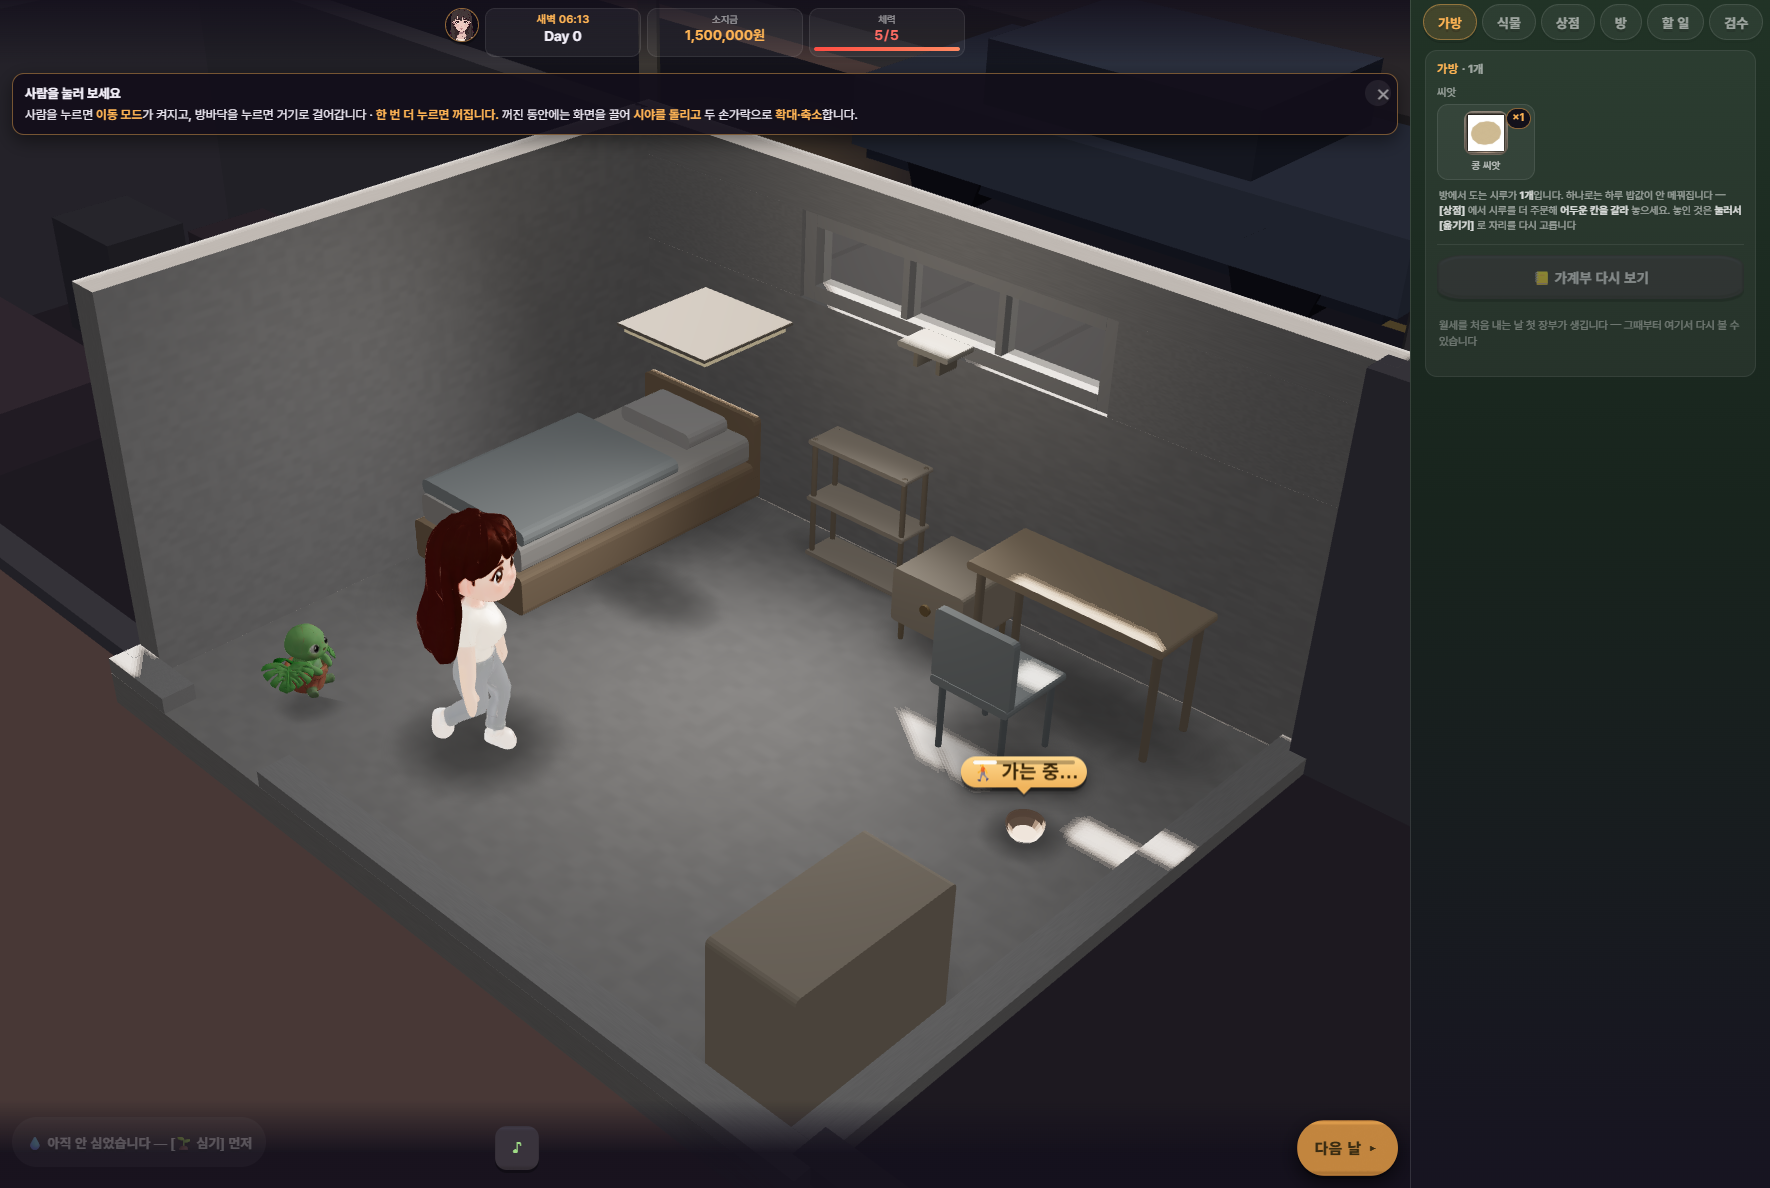
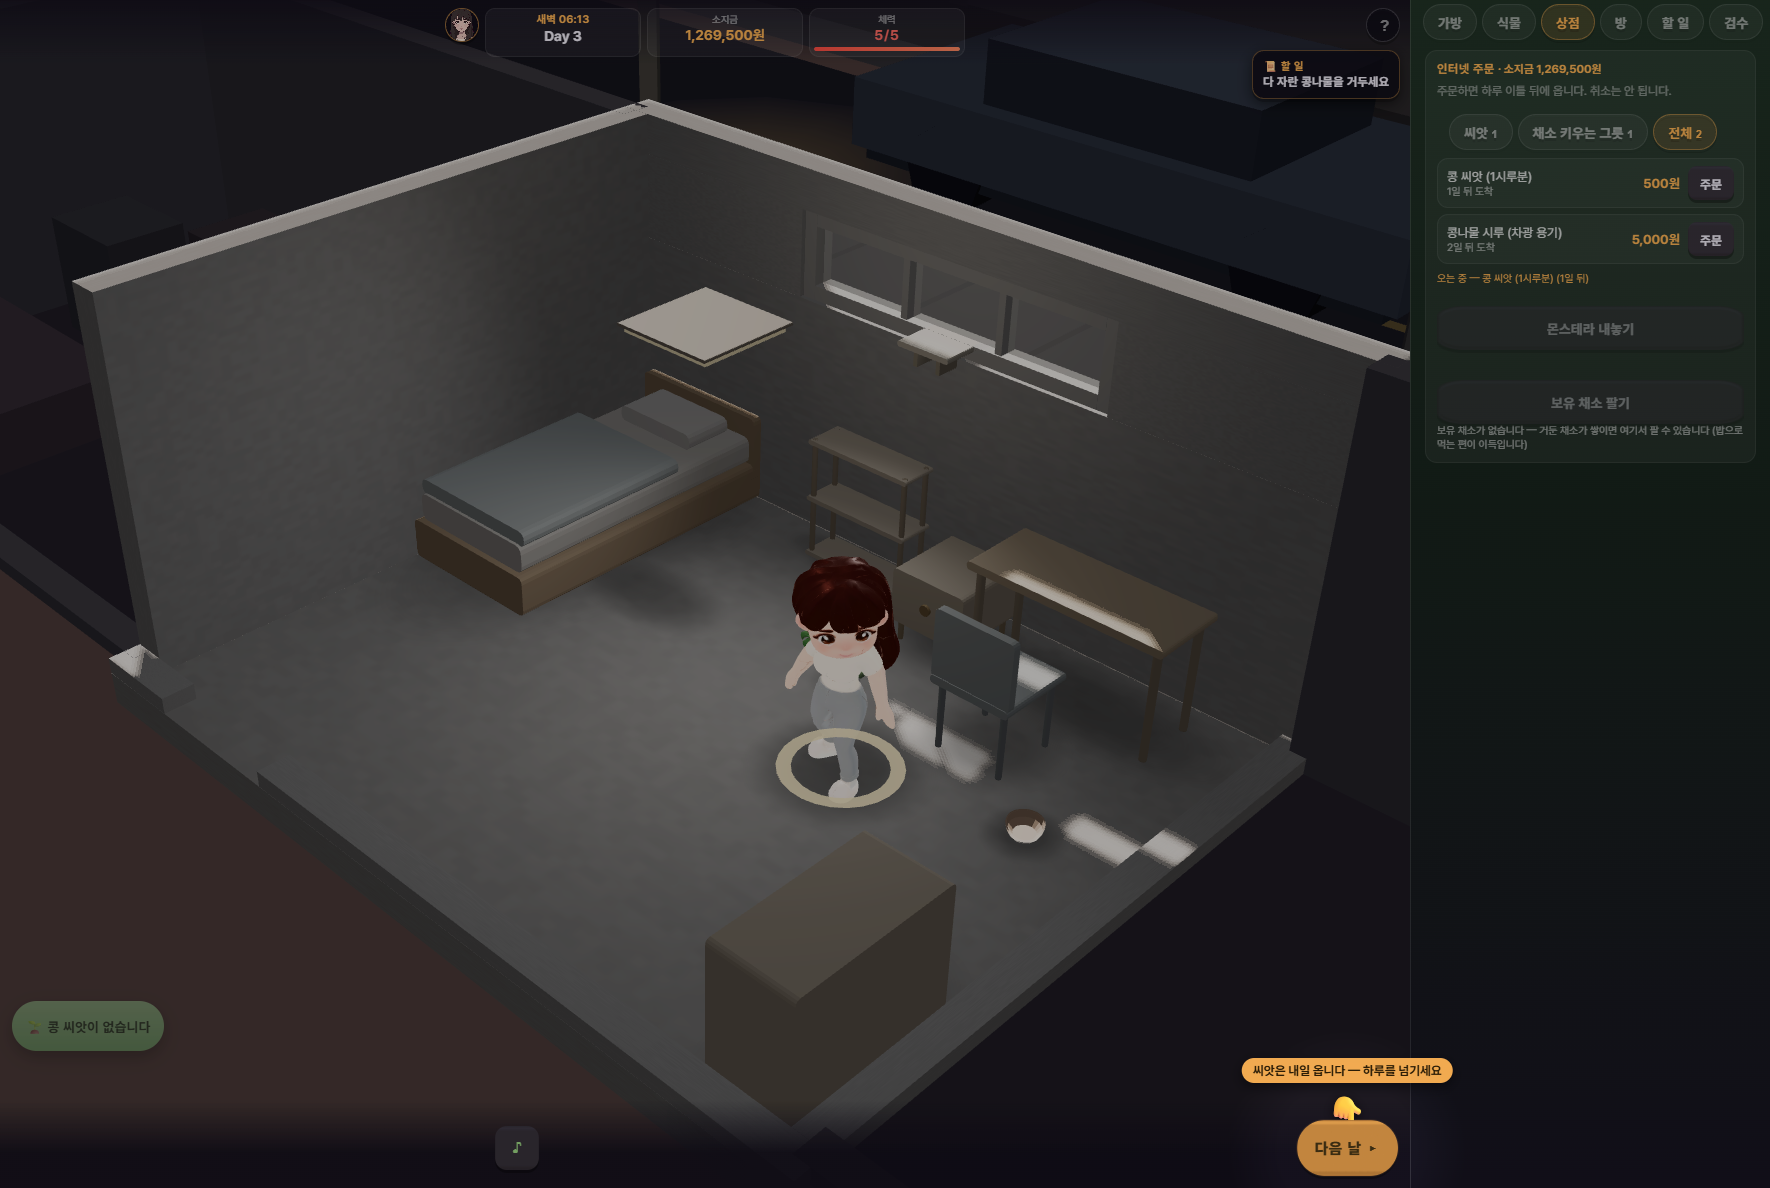
넓은 화면에서 손가락이 죽던 갈래 넷 — 「시트가 열렸나」를 「시트가 이것을 덮나」로
총괄이 걸은 [20~24] 다섯 걸음: 1770×1188 · 시트 연 채 · Day 5 아침에
할 일은 「2바퀴째 돌려 보세요」인데 손가락도 덮개도 없었다.

- updateHint 의 네 갈래(말풍선 · 거두기 · 물주기 · 기다림)가 `!sheetOpen` 으로
  막혀 있었다. 넓은 화면은 시트가 늘 펴져 있어 그 갈래가 통째로 죽는다.
  ⇒ `sheetCovers(el)` — 그 요소를 시트가 실제로 덮나(네모 겹침)로 바꾼다.
  따라다니는 고리가 쓰는 자와 같은 자다.
- ①「시루를 아직 안 놓았다」가 `crop.slotId` 를 보고 있었다. 자유 좌표로 놓은
  시루는 slotId 가 없어 「안 놓았다」로 읽혔다. 코어의 `cropPotList(...).placed`
  하나로 센다.
- hintAt 에 진단 손잡이 `__hintLast` — 마지막으로 무엇을, 어느 줄이 짚었나.
  「왜 손가락이 없나」를 갈래를 손으로 뒤지지 않고 한 번에 답한다.
- `__pickState` — 집는 중 · 끄는 중을 밖에서 읽는다(읽기용).

잰 값 (probe_walkstep · 1770×1188 · 시트 연 채 · 씨앗 오는 중):
  손가락 ✔ · 덮개 ✔ · 짚는 것 #next · 말 「씨앗은 내일 옵니다 — 하루를 넘기세요」

자가 만든 판 하나를 같이 고쳤다 — probe_walkstep 의 대사 걷기가
`String()` 없이 값을 견주어 「대사 없음」으로 잘못 읽고 빠져나갔다.
대사 중에는 손가락을 일부러 끄므로, 그 판에서는 언제 재도 「손가락 없음」이 나온다.
다섯 걸음을 헛짚은 까닭이 그것이다.

probe_grabjump — test_uiwire P-2 가 왜 null 인가를 재는 자(아래 참조).

diff --git a/game.html b/game.html
@@ -3878,6 +3878,21 @@ setInterval(() => {
 }, HINT_WATCH_MS);
 function hintAt(el, say) {
   const h = $('hint');
+  /* ★ 진단 손잡이 — **마지막으로 «무엇을» 짚으라 했나**(2026-08-30).
+     ⚠ 오늘 「왜 손가락이 없나」를 네 번 물었고, 그때마다 갈래를 손으로 뒤졌다.
+       이 한 줄이 그 물음을 «한 번에» 답한다. 게임은 이 값을 안 쓴다(읽는 자를 위한 문). */
+  try {
+    window.__hintLast = { id: el ? (el.id || el.className || el.tagName) : null, say: say || null,
+                          보임: el ? (() => { const r = el.getBoundingClientRect();
+                            return r.width > 0 && r.height > 0; })() : null,
+                          /* ★ 어느 «줄»이 불렀나 — 갈래가 열둘이라 이름 없이 못 찾는다 */
+                          자리: (() => { try {
+                            const L = ((new Error()).stack || '').split(String.fromCharCode(10));
+                            /* ⚠ 첫 줄들은 «이 안»이다 — hintAt 밖의 첫 줄이 부른 자리다 */
+                            return L.slice(1, 6).map(x => x.trim().replace(/^at\s+/, '')
+                                     .replace(/^.*game\.html:/, '')).join(' ← ');
+                          } catch { return null; } })() };
+  } catch { }
   if (hintTargetEl && hintTargetEl !== el) hintTargetEl.classList.remove('hintTarget');
   if (!el) { h.classList.remove('on'); hintTargetEl = null; dimOff();
              hintFollow = null; hintFollowLoop(false); return; }
@@ -5010,6 +5025,24 @@ function updateHint() {
   if (coachNow) return hintAt(null);
   const fp = S.firstPlay, ts = S.tutorial;
   const stage = $('stage'), sheetOpen = $('sheet').classList.contains('open');
+  /* ★★★★ 2026-08-30 — **「시트가 열렸나」가 아니라 「시트가 «이것을» 덮나」.**
+     ══════════════════════════════════════════════════════════════════
+     ⛔ 갈래마다 `!sheetOpen` 으로 막고 있었다. 뜻은 「시트에 가린 것을 가리키지 마라」인데
+       **넓은 화면에서는 시트가 늘 펴져 있다** ⇒ ★ 그 갈래들이 통째로 죽는다.
+       ⇒ 실측(총괄 · 1770×1188 · 시트 연 채): Day 5 에 씨앗이 오는 중인데 손가락이 «없었다» —
+         「씨앗은 내일 옵니다 — 하루를 넘기세요」가 `!sheetOpen` 에 걸려 안 떴다.
+         ⇒ ⇒ ★★ 할 일은 「2바퀴째 돌려라」인데 화면은 «조용»했다. 사람이 거기서 멈춘다.
+     ★ 그러니 «덮나»를 잰다 — 따라다니는 고리에 오늘 넣은 그 자와 **같은 자**다(㊷ 하나로 센다). */
+  const sheetCovers = (el) => {
+    if (!sheetOpen || !el) return false;
+    try {
+      const sh = $('sheet');
+      if (!sh || sh.contains(el)) return false;
+      const a = el.getBoundingClientRect(), b = sh.getBoundingClientRect();
+      if (!a.width || !a.height || !b.width || !b.height) return false;
+      return !(a.right <= b.left || b.right <= a.left || a.bottom <= b.top || b.bottom <= a.top);
+    } catch { return false; }
+  };
   /* ★★★ 2026-08-17 — **[확인]을 가리킨다.** 놓기 직후의 이 한 걸음이 안내의 구멍이었다
      (§startPhonePlace). 「여기에 둘까요?」가 떠 있는데 손가락이 쉬면, 화면에서 제일 크게
      말하는 것이 사라져 사람은 그 자리에서 멈춘다 — 실측에서 스물여섯 날을 멈췄다.
@@ -5100,11 +5133,17 @@ function updateHint() {
      ⚠ 「배웠나」의 임자를 **새로 안 만들었다** — 「본 쪽지」 서랍(`coachSeen`)이 이미 그 뜻이고
        새로고침에도 남는다. 쪽지 `walk` 는 **사람을 처음 누를 때** 찍히므로 그 하나로 ①이 끝난다.
      ⚠ 대사·쪽지 중에는 이 갈래도 안 뜬다 — 위 §쪽지가 떠 있으면 · §talking 이 이미 걷는다. */
+  /* ★★★★ 2026-08-30 — **「시루를 놓았나」의 자는 «하나»다.**
+     ⛔ 아래 ①갈래가 `crop.slotId` 를 보고 있었다 — 그런데 **자유 좌표(`at`)로 놓은 시루는
+       `slotId` 가 없다.** 끌어 놓거나 바닥에 놓으면 그렇다(그게 기본 길이다).
+       ⇒ 그러면 게임이 「아직 안 놓았다」로 읽고, 넓은 화면에서는 가리킬 것도 없어
+         **손가락을 통째로 껐다** — 총괄이 걸은 [20~24]의 다섯 걸음이 그것이다.
+     ★ 코어에는 이미 그 자가 있다: `cropPotList(...).placed`(= `cropPotPlaced` = slotId «또는» at).
+       퀘스트 사슬도 그 자를 쓴다. 화면만 다른 자를 쓰고 있었다(㊷ 하나로 센다). */
+  const cropRows = (() => { try { return cropPotList(fp, S.day); } catch { return []; } })();
+  const placedOne = cropRows.some(r => r && r.placed);
   {
     const learnedWalk = (() => { try { return coachSeen().has('walk'); } catch { return true; } })();
-    const placedOne = (() => {
-      try { return cropPotList(fp, S.day).some(r => r && r.placed); } catch { return false; }
-    })();
     if (!learnedWalk && placedOne && roomView && roomView.screenPosOf) {
       const who = (() => {
         try { return (roomView.characters() || []).find(c => c && c.walkable) || null; }
@@ -5132,8 +5171,8 @@ function updateHint() {
       }
     }
   }
-  /* ① 시루를 아직 안 놓았다 */
-  if (!crop.slotId) {
+  /* ① 시루를 아직 안 놓았다 — ★ 자유 좌표도 「놓은 것」이다(§placedOne) */
+  if (!placedOne) {
     /* ★ 2026-08-10 — 가리키는 것은 이제 **가방 격자의 시루 칸**이다(id 는 그대로 `cropThumb`).
        칸이 없으면(빈 시루 0개) `onScreen(null)` 이 false 라 아래 [가방]으로 떨어진다. */
     if (onScreen($('cropThumb'))) return hintAt($('cropThumb'), '끌거나 눌러서 방 안 어두운 자리에');
@@ -5372,17 +5411,17 @@ function updateHint() {
     try { return ((S.firstPlay && S.firstPlay.beansprout && S.firstPlay.beansprout.harvestCount) || 0) >= 2; }
     catch { return false; }
   })();
-  const markEl = !sheetOpen && !taughtBasics && $('marks') && $('marks').querySelector('.mark');
-  if (markEl && onScreen(markEl)) {
+  const markEl = !taughtBasics && $('marks') && $('marks').querySelector('.mark');
+  if (markEl && onScreen(markEl) && !sheetCovers(markEl)) {
     const ko = (markEl.textContent || '').replace(/^[^가-힣]+/, '');
     return hintAt(markEl, /거두/.test(ko) ? '거둘 때가 됐습니다'
                         : /물/.test(ko)   ? '물을 주면 자라기 시작합니다'
                         : ko || '여기를 눌러 보세요');
   }
   const btnHarvest = $('harvestCrop'), btnWater = $('waterCrop');
-  if (!sheetOpen && !taughtBasics && onScreen(btnHarvest) && !btnHarvest.disabled)
+  if (!taughtBasics && onScreen(btnHarvest) && !btnHarvest.disabled && !sheetCovers(btnHarvest))
     return hintAt(btnHarvest, '거둘 때가 됐습니다');
-  if (!sheetOpen && !taughtBasics && onScreen(btnWater) && !btnWater.disabled)
+  if (!taughtBasics && onScreen(btnWater) && !btnWater.disabled && !sheetCovers(btnWater))
     return hintAt(btnWater, '물을 주면 자라기 시작합니다');
   /* ★★ 2026-08-11 — **몬스테라 물주기도 손이 가는 일이다.**
      말풍선(`potMarks`)은 **마른 뒤에만** 뜨는데 아래 버튼(`#waterPot`)은
@@ -5475,7 +5514,9 @@ function updateHint() {
   const wait = seedComing ? '씨앗은 내일 옵니다 — 하루를 넘기세요'
              : (cropGrowing && !taughtCycles) ? '자라는 중입니다 — 하루를 넘겨 보세요'
              : S.day <= 1 ? '하루를 보냅니다' : null;
-  if (!sheetOpen && !$('next').disabled && wait) return hintAt($('next'), wait);
+  /* ★ 여기가 총괄이 잡은 자리다 — 씨앗이 «오는 중»인데 시트가 열려 있어 손가락이 통째로 없었다.
+     ⇒ 「시트가 [다음 날]을 «덮나»」로 바꾼다. 넓은 화면에서는 안 덮으므로 그대로 짚는다. */
+  if (!$('next').disabled && wait && !sheetCovers($('next'))) return hintAt($('next'), wait);
   hintAt(null);
 }
 
@@ -11329,6 +11370,11 @@ async function bootRoomView() {
        검사가 상태를 만들어 놓고 화면이 그걸 따라오는지 보려면 이 한 걸음이 필요하다.
        ⚠ 게임은 이걸 안 쓴다(draw() 를 직접 부른다). 밖에서만 쓰는 진단용이다. */
     window.__redraw = () => { try { draw(); } catch (e) { console.warn('[진단] 다시 그리기', e); } };
+    /* ★ 지금 «무엇을 들고 있나» — 손가락이 꺼지는 까닭의 태반이 여기다(집는 중·끄는 중).
+       ⚠ 읽기용이다. 밖에서 집게를 «세우는» 문은 만들지 않는다. */
+    window.__pickState = () => { try { return { 집기: picked.mode || null, 무엇: picked.what || null,
+                                                끄는중: !!drag.on, 끄는것: drag.what || null }; }
+                                 catch (e) { return { 탈: String(e && e.message || e) }; } };
     /* ★ 상세 창을 밖에서 연다 — **화면이 부르는 바로 그 함수**다(다른 길을 만들지 않는다).
        검사가 「어느 그루의 카드가 뜨나」를 단추 없이도 가릴 수 있게 하는 진단용 손잡이. */
     window.__detailOpen = (kind, arg) => { try { detail.open(kind, arg); return true; }
